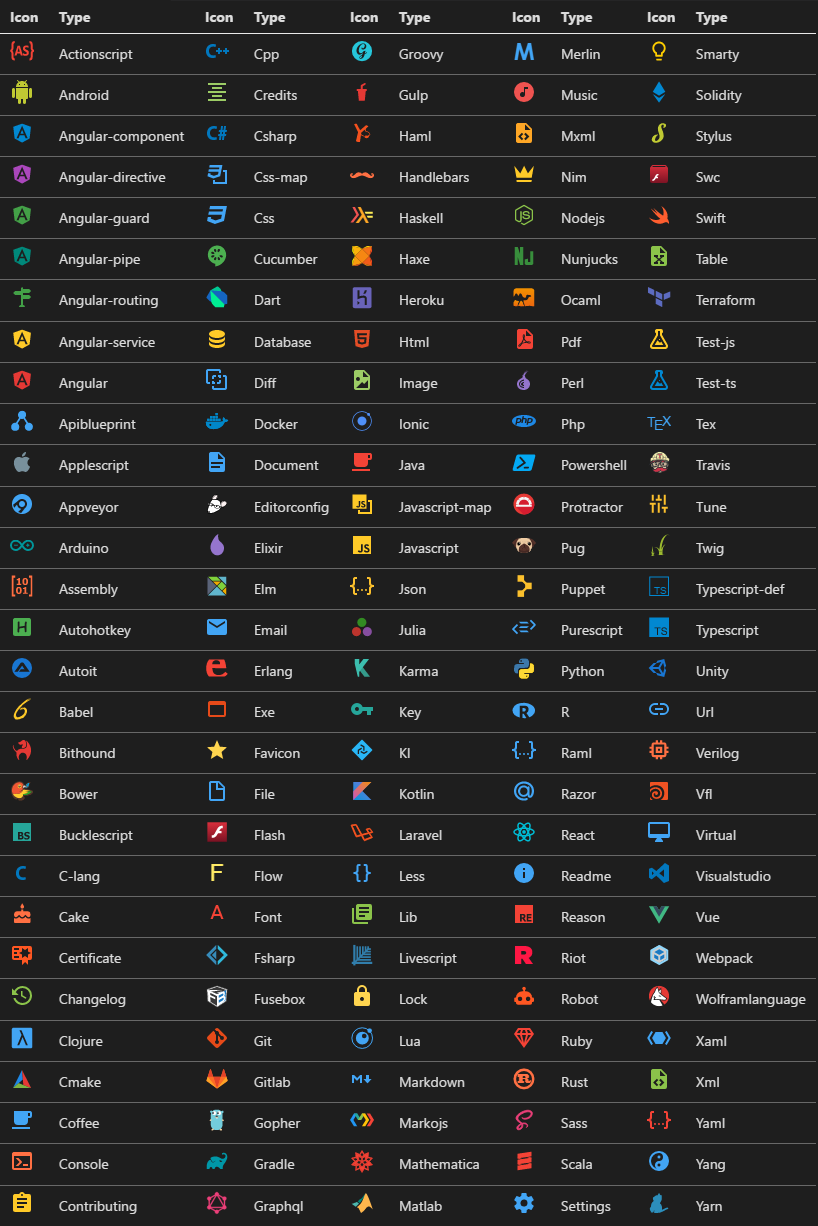
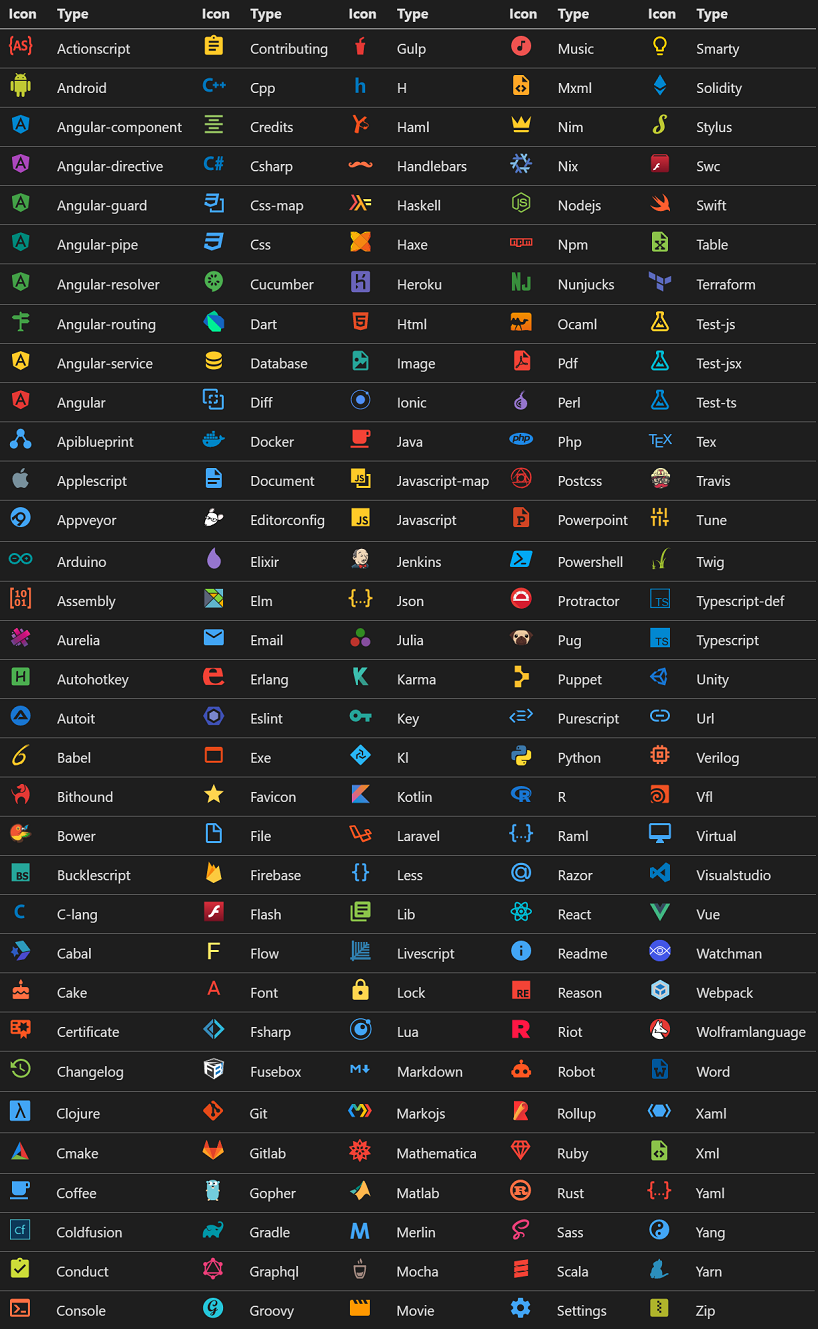
get ready to publish

Changed region(s): [[0.0, 0.0, 0.3973, 0.9918], [0.4279, 0.0, 0.7641, 0.9918], [0.7641, 0.0, 0.978, 0.9918]]

diff --git a/scripts/preview/index.ts b/scripts/preview/index.ts
@@ -20,7 +20,7 @@ const init = () => {
         iconList: fileIcons,
         markdownName: 'file-icons.md',
         columns: 5,
-        exclude: ['Todo', 'PowerPoint', 'Virtual'],
+        exclude: ['Todo'],
         outputPath: path.join('images')
     });
 

diff --git a/images/file-icons.md b/images/file-icons.md
@@ -1,33 +1,35 @@
 |Icon|Type|Icon|Type|Icon|Type|Icon|Type|Icon|Type|
 |---|---|---|---|---|---|---|---|---|---|
-|<img src="./../icons/actionscript.svg" width="24px">|Actionscript|<img src="./../icons/console.svg" width="24px">|Console|<img src="./../icons/graphql.svg" width="24px">|Graphql|<img src="./../icons/mocha.svg" width="24px">|Mocha|<img src="./../icons/smarty.svg" width="24px">|Smarty|
-|<img src="./../icons/android.svg" width="24px">|Android|<img src="./../icons/contributing.svg" width="24px">|Contributing|<img src="./../icons/groovy.svg" width="24px">|Groovy|<img src="./../icons/movie.svg" width="24px">|Movie|<img src="./../icons/solidity.svg" width="24px">|Solidity|
-|<img src="./../icons/angular-component.svg" width="24px">|Angular-component|<img src="./../icons/cpp.svg" width="24px">|Cpp|<img src="./../icons/gulp.svg" width="24px">|Gulp|<img src="./../icons/music.svg" width="24px">|Music|<img src="./../icons/stylus.svg" width="24px">|Stylus|
-|<img src="./../icons/angular-directive.svg" width="24px">|Angular-directive|<img src="./../icons/credits.svg" width="24px">|Credits|<img src="./../icons/haml.svg" width="24px">|Haml|<img src="./../icons/mxml.svg" width="24px">|Mxml|<img src="./../icons/swc.svg" width="24px">|Swc|
-|<img src="./../icons/angular-guard.svg" width="24px">|Angular-guard|<img src="./../icons/csharp.svg" width="24px">|Csharp|<img src="./../icons/handlebars.svg" width="24px">|Handlebars|<img src="./../icons/nim.svg" width="24px">|Nim|<img src="./../icons/swift.svg" width="24px">|Swift|
-|<img src="./../icons/angular-pipe.svg" width="24px">|Angular-pipe|<img src="./../icons/css-map.svg" width="24px">|Css-map|<img src="./../icons/haskell.svg" width="24px">|Haskell|<img src="./../icons/nodejs.svg" width="24px">|Nodejs|<img src="./../icons/table.svg" width="24px">|Table|
-|<img src="./../icons/angular-resolver.svg" width="24px">|Angular-resolver|<img src="./../icons/css.svg" width="24px">|Css|<img src="./../icons/haxe.svg" width="24px">|Haxe|<img src="./../icons/nunjucks.svg" width="24px">|Nunjucks|<img src="./../icons/terraform.svg" width="24px">|Terraform|
-|<img src="./../icons/angular-routing.svg" width="24px">|Angular-routing|<img src="./../icons/cucumber.svg" width="24px">|Cucumber|<img src="./../icons/heroku.svg" width="24px">|Heroku|<img src="./../icons/ocaml.svg" width="24px">|Ocaml|<img src="./../icons/test-js.svg" width="24px">|Test-js|
-|<img src="./../icons/angular-service.svg" width="24px">|Angular-service|<img src="./../icons/dart.svg" width="24px">|Dart|<img src="./../icons/html.svg" width="24px">|Html|<img src="./../icons/pdf.svg" width="24px">|Pdf|<img src="./../icons/test-jsx.svg" width="24px">|Test-jsx|
-|<img src="./../icons/angular.svg" width="24px">|Angular|<img src="./../icons/database.svg" width="24px">|Database|<img src="./../icons/image.svg" width="24px">|Image|<img src="./../icons/perl.svg" width="24px">|Perl|<img src="./../icons/test-ts.svg" width="24px">|Test-ts|
-|<img src="./../icons/apiblueprint.svg" width="24px">|Apiblueprint|<img src="./../icons/diff.svg" width="24px">|Diff|<img src="./../icons/ionic.svg" width="24px">|Ionic|<img src="./../icons/php.svg" width="24px">|Php|<img src="./../icons/tex.svg" width="24px">|Tex|
-|<img src="./../icons/applescript.svg" width="24px">|Applescript|<img src="./../icons/docker.svg" width="24px">|Docker|<img src="./../icons/java.svg" width="24px">|Java|<img src="./../icons/postcss.svg" width="24px">|Postcss|<img src="./../icons/travis.svg" width="24px">|Travis|
-|<img src="./../icons/appveyor.svg" width="24px">|Appveyor|<img src="./../icons/document.svg" width="24px">|Document|<img src="./../icons/javascript-map.svg" width="24px">|Javascript-map|<img src="./../icons/powershell.svg" width="24px">|Powershell|<img src="./../icons/tune.svg" width="24px">|Tune|
-|<img src="./../icons/arduino.svg" width="24px">|Arduino|<img src="./../icons/editorconfig.svg" width="24px">|Editorconfig|<img src="./../icons/javascript.svg" width="24px">|Javascript|<img src="./../icons/protractor.svg" width="24px">|Protractor|<img src="./../icons/twig.svg" width="24px">|Twig|
-|<img src="./../icons/assembly.svg" width="24px">|Assembly|<img src="./../icons/elixir.svg" width="24px">|Elixir|<img src="./../icons/json.svg" width="24px">|Json|<img src="./../icons/pug.svg" width="24px">|Pug|<img src="./../icons/typescript-def.svg" width="24px">|Typescript-def|
-|<img src="./../icons/aurelia.svg" width="24px">|Aurelia|<img src="./../icons/elm.svg" width="24px">|Elm|<img src="./../icons/julia.svg" width="24px">|Julia|<img src="./../icons/puppet.svg" width="24px">|Puppet|<img src="./../icons/typescript.svg" width="24px">|Typescript|
-|<img src="./../icons/autohotkey.svg" width="24px">|Autohotkey|<img src="./../icons/email.svg" width="24px">|Email|<img src="./../icons/karma.svg" width="24px">|Karma|<img src="./../icons/purescript.svg" width="24px">|Purescript|<img src="./../icons/unity.svg" width="24px">|Unity|
-|<img src="./../icons/autoit.svg" width="24px">|Autoit|<img src="./../icons/erlang.svg" width="24px">|Erlang|<img src="./../icons/key.svg" width="24px">|Key|<img src="./../icons/python.svg" width="24px">|Python|<img src="./../icons/url.svg" width="24px">|Url|
-|<img src="./../icons/babel.svg" width="24px">|Babel|<img src="./../icons/eslint.svg" width="24px">|Eslint|<img src="./../icons/kl.svg" width="24px">|Kl|<img src="./../icons/r.svg" width="24px">|R|<img src="./../icons/verilog.svg" width="24px">|Verilog|
-|<img src="./../icons/bithound.svg" width="24px">|Bithound|<img src="./../icons/exe.svg" width="24px">|Exe|<img src="./../icons/kotlin.svg" width="24px">|Kotlin|<img src="./../icons/raml.svg" width="24px">|Raml|<img src="./../icons/vfl.svg" width="24px">|Vfl|
-|<img src="./../icons/bower.svg" width="24px">|Bower|<img src="./../icons/favicon.svg" width="24px">|Favicon|<img src="./../icons/laravel.svg" width="24px">|Laravel|<img src="./../icons/razor.svg" width="24px">|Razor|<img src="./../icons/visualstudio.svg" width="24px">|Visualstudio|
-|<img src="./../icons/bucklescript.svg" width="24px">|Bucklescript|<img src="./../icons/file.svg" width="24px">|File|<img src="./../icons/less.svg" width="24px">|Less|<img src="./../icons/react.svg" width="24px">|React|<img src="./../icons/vue.svg" width="24px">|Vue|
-|<img src="./../icons/c-lang.svg" width="24px">|C-lang|<img src="./../icons/flash.svg" width="24px">|Flash|<img src="./../icons/lib.svg" width="24px">|Lib|<img src="./../icons/readme.svg" width="24px">|Readme|<img src="./../icons/watchman.svg" width="24px">|Watchman|
-|<img src="./../icons/cake.svg" width="24px">|Cake|<img src="./../icons/flow.svg" width="24px">|Flow|<img src="./../icons/livescript.svg" width="24px">|Livescript|<img src="./../icons/reason.svg" width="24px">|Reason|<img src="./../icons/webpack.svg" width="24px">|Webpack|
-|<img src="./../icons/certificate.svg" width="24px">|Certificate|<img src="./../icons/font.svg" width="24px">|Font|<img src="./../icons/lock.svg" width="24px">|Lock|<img src="./../icons/riot.svg" width="24px">|Riot|<img src="./../icons/wolframlanguage.svg" width="24px">|Wolframlanguage|
-|<img src="./../icons/changelog.svg" width="24px">|Changelog|<img src="./../icons/fsharp.svg" width="24px">|Fsharp|<img src="./../icons/lua.svg" width="24px">|Lua|<img src="./../icons/robot.svg" width="24px">|Robot|<img src="./../icons/word.svg" width="24px">|Word|
-|<img src="./../icons/clojure.svg" width="24px">|Clojure|<img src="./../icons/fusebox.svg" width="24px">|Fusebox|<img src="./../icons/markdown.svg" width="24px">|Markdown|<img src="./../icons/ruby.svg" width="24px">|Ruby|<img src="./../icons/xaml.svg" width="24px">|Xaml|
-|<img src="./../icons/cmake.svg" width="24px">|Cmake|<img src="./../icons/git.svg" width="24px">|Git|<img src="./../icons/markojs.svg" width="24px">|Markojs|<img src="./../icons/rust.svg" width="24px">|Rust|<img src="./../icons/xml.svg" width="24px">|Xml|
-|<img src="./../icons/coffee.svg" width="24px">|Coffee|<img src="./../icons/gitlab.svg" width="24px">|Gitlab|<img src="./../icons/mathematica.svg" width="24px">|Mathematica|<img src="./../icons/sass.svg" width="24px">|Sass|<img src="./../icons/yaml.svg" width="24px">|Yaml|
-|<img src="./../icons/coldfusion.svg" width="24px">|Coldfusion|<img src="./../icons/gopher.svg" width="24px">|Gopher|<img src="./../icons/matlab.svg" width="24px">|Matlab|<img src="./../icons/scala.svg" width="24px">|Scala|<img src="./../icons/yang.svg" width="24px">|Yang|
-|<img src="./../icons/conduct.svg" width="24px">|Conduct|<img src="./../icons/gradle.svg" width="24px">|Gradle|<img src="./../icons/merlin.svg" width="24px">|Merlin|<img src="./../icons/settings.svg" width="24px">|Settings|<img src="./../icons/yarn.svg" width="24px">|Yarn|
+|<img src="./../icons/actionscript.svg" width="24px">|Actionscript|<img src="./../icons/contributing.svg" width="24px">|Contributing|<img src="./../icons/gulp.svg" width="24px">|Gulp|<img src="./../icons/music.svg" width="24px">|Music|<img src="./../icons/smarty.svg" width="24px">|Smarty|
+|<img src="./../icons/android.svg" width="24px">|Android|<img src="./../icons/cpp.svg" width="24px">|Cpp|<img src="./../icons/h.svg" width="24px">|H|<img src="./../icons/mxml.svg" width="24px">|Mxml|<img src="./../icons/solidity.svg" width="24px">|Solidity|
+|<img src="./../icons/angular-component.svg" width="24px">|Angular-component|<img src="./../icons/credits.svg" width="24px">|Credits|<img src="./../icons/haml.svg" width="24px">|Haml|<img src="./../icons/nim.svg" width="24px">|Nim|<img src="./../icons/stylus.svg" width="24px">|Stylus|
+|<img src="./../icons/angular-directive.svg" width="24px">|Angular-directive|<img src="./../icons/csharp.svg" width="24px">|Csharp|<img src="./../icons/handlebars.svg" width="24px">|Handlebars|<img src="./../icons/nix.svg" width="24px">|Nix|<img src="./../icons/swc.svg" width="24px">|Swc|
+|<img src="./../icons/angular-guard.svg" width="24px">|Angular-guard|<img src="./../icons/css-map.svg" width="24px">|Css-map|<img src="./../icons/haskell.svg" width="24px">|Haskell|<img src="./../icons/nodejs.svg" width="24px">|Nodejs|<img src="./../icons/swift.svg" width="24px">|Swift|
+|<img src="./../icons/angular-pipe.svg" width="24px">|Angular-pipe|<img src="./../icons/css.svg" width="24px">|Css|<img src="./../icons/haxe.svg" width="24px">|Haxe|<img src="./../icons/npm.svg" width="24px">|Npm|<img src="./../icons/table.svg" width="24px">|Table|
+|<img src="./../icons/angular-resolver.svg" width="24px">|Angular-resolver|<img src="./../icons/cucumber.svg" width="24px">|Cucumber|<img src="./../icons/heroku.svg" width="24px">|Heroku|<img src="./../icons/nunjucks.svg" width="24px">|Nunjucks|<img src="./../icons/terraform.svg" width="24px">|Terraform|
+|<img src="./../icons/angular-routing.svg" width="24px">|Angular-routing|<img src="./../icons/dart.svg" width="24px">|Dart|<img src="./../icons/html.svg" width="24px">|Html|<img src="./../icons/ocaml.svg" width="24px">|Ocaml|<img src="./../icons/test-js.svg" width="24px">|Test-js|
+|<img src="./../icons/angular-service.svg" width="24px">|Angular-service|<img src="./../icons/database.svg" width="24px">|Database|<img src="./../icons/image.svg" width="24px">|Image|<img src="./../icons/pdf.svg" width="24px">|Pdf|<img src="./../icons/test-jsx.svg" width="24px">|Test-jsx|
+|<img src="./../icons/angular.svg" width="24px">|Angular|<img src="./../icons/diff.svg" width="24px">|Diff|<img src="./../icons/ionic.svg" width="24px">|Ionic|<img src="./../icons/perl.svg" width="24px">|Perl|<img src="./../icons/test-ts.svg" width="24px">|Test-ts|
+|<img src="./../icons/apiblueprint.svg" width="24px">|Apiblueprint|<img src="./../icons/docker.svg" width="24px">|Docker|<img src="./../icons/java.svg" width="24px">|Java|<img src="./../icons/php.svg" width="24px">|Php|<img src="./../icons/tex.svg" width="24px">|Tex|
+|<img src="./../icons/applescript.svg" width="24px">|Applescript|<img src="./../icons/document.svg" width="24px">|Document|<img src="./../icons/javascript-map.svg" width="24px">|Javascript-map|<img src="./../icons/postcss.svg" width="24px">|Postcss|<img src="./../icons/travis.svg" width="24px">|Travis|
+|<img src="./../icons/appveyor.svg" width="24px">|Appveyor|<img src="./../icons/editorconfig.svg" width="24px">|Editorconfig|<img src="./../icons/javascript.svg" width="24px">|Javascript|<img src="./../icons/powerpoint.svg" width="24px">|Powerpoint|<img src="./../icons/tune.svg" width="24px">|Tune|
+|<img src="./../icons/arduino.svg" width="24px">|Arduino|<img src="./../icons/elixir.svg" width="24px">|Elixir|<img src="./../icons/jenkins.svg" width="24px">|Jenkins|<img src="./../icons/powershell.svg" width="24px">|Powershell|<img src="./../icons/twig.svg" width="24px">|Twig|
+|<img src="./../icons/assembly.svg" width="24px">|Assembly|<img src="./../icons/elm.svg" width="24px">|Elm|<img src="./../icons/json.svg" width="24px">|Json|<img src="./../icons/protractor.svg" width="24px">|Protractor|<img src="./../icons/typescript-def.svg" width="24px">|Typescript-def|
+|<img src="./../icons/aurelia.svg" width="24px">|Aurelia|<img src="./../icons/email.svg" width="24px">|Email|<img src="./../icons/julia.svg" width="24px">|Julia|<img src="./../icons/pug.svg" width="24px">|Pug|<img src="./../icons/typescript.svg" width="24px">|Typescript|
+|<img src="./../icons/autohotkey.svg" width="24px">|Autohotkey|<img src="./../icons/erlang.svg" width="24px">|Erlang|<img src="./../icons/karma.svg" width="24px">|Karma|<img src="./../icons/puppet.svg" width="24px">|Puppet|<img src="./../icons/unity.svg" width="24px">|Unity|
+|<img src="./../icons/autoit.svg" width="24px">|Autoit|<img src="./../icons/eslint.svg" width="24px">|Eslint|<img src="./../icons/key.svg" width="24px">|Key|<img src="./../icons/purescript.svg" width="24px">|Purescript|<img src="./../icons/url.svg" width="24px">|Url|
+|<img src="./../icons/babel.svg" width="24px">|Babel|<img src="./../icons/exe.svg" width="24px">|Exe|<img src="./../icons/kl.svg" width="24px">|Kl|<img src="./../icons/python.svg" width="24px">|Python|<img src="./../icons/verilog.svg" width="24px">|Verilog|
+|<img src="./../icons/bithound.svg" width="24px">|Bithound|<img src="./../icons/favicon.svg" width="24px">|Favicon|<img src="./../icons/kotlin.svg" width="24px">|Kotlin|<img src="./../icons/r.svg" width="24px">|R|<img src="./../icons/vfl.svg" width="24px">|Vfl|
+|<img src="./../icons/bower.svg" width="24px">|Bower|<img src="./../icons/file.svg" width="24px">|File|<img src="./../icons/laravel.svg" width="24px">|Laravel|<img src="./../icons/raml.svg" width="24px">|Raml|<img src="./../icons/virtual.svg" width="24px">|Virtual|
+|<img src="./../icons/bucklescript.svg" width="24px">|Bucklescript|<img src="./../icons/firebase.svg" width="24px">|Firebase|<img src="./../icons/less.svg" width="24px">|Less|<img src="./../icons/razor.svg" width="24px">|Razor|<img src="./../icons/visualstudio.svg" width="24px">|Visualstudio|
+|<img src="./../icons/c-lang.svg" width="24px">|C-lang|<img src="./../icons/flash.svg" width="24px">|Flash|<img src="./../icons/lib.svg" width="24px">|Lib|<img src="./../icons/react.svg" width="24px">|React|<img src="./../icons/vue.svg" width="24px">|Vue|
+|<img src="./../icons/cabal.svg" width="24px">|Cabal|<img src="./../icons/flow.svg" width="24px">|Flow|<img src="./../icons/livescript.svg" width="24px">|Livescript|<img src="./../icons/readme.svg" width="24px">|Readme|<img src="./../icons/watchman.svg" width="24px">|Watchman|
+|<img src="./../icons/cake.svg" width="24px">|Cake|<img src="./../icons/font.svg" width="24px">|Font|<img src="./../icons/lock.svg" width="24px">|Lock|<img src="./../icons/reason.svg" width="24px">|Reason|<img src="./../icons/webpack.svg" width="24px">|Webpack|
+|<img src="./../icons/certificate.svg" width="24px">|Certificate|<img src="./../icons/fsharp.svg" width="24px">|Fsharp|<img src="./../icons/lua.svg" width="24px">|Lua|<img src="./../icons/riot.svg" width="24px">|Riot|<img src="./../icons/wolframlanguage.svg" width="24px">|Wolframlanguage|
+|<img src="./../icons/changelog.svg" width="24px">|Changelog|<img src="./../icons/fusebox.svg" width="24px">|Fusebox|<img src="./../icons/markdown.svg" width="24px">|Markdown|<img src="./../icons/robot.svg" width="24px">|Robot|<img src="./../icons/word.svg" width="24px">|Word|
+|<img src="./../icons/clojure.svg" width="24px">|Clojure|<img src="./../icons/git.svg" width="24px">|Git|<img src="./../icons/markojs.svg" width="24px">|Markojs|<img src="./../icons/rollup.svg" width="24px">|Rollup|<img src="./../icons/xaml.svg" width="24px">|Xaml|
+|<img src="./../icons/cmake.svg" width="24px">|Cmake|<img src="./../icons/gitlab.svg" width="24px">|Gitlab|<img src="./../icons/mathematica.svg" width="24px">|Mathematica|<img src="./../icons/ruby.svg" width="24px">|Ruby|<img src="./../icons/xml.svg" width="24px">|Xml|
+|<img src="./../icons/coffee.svg" width="24px">|Coffee|<img src="./../icons/gopher.svg" width="24px">|Gopher|<img src="./../icons/matlab.svg" width="24px">|Matlab|<img src="./../icons/rust.svg" width="24px">|Rust|<img src="./../icons/yaml.svg" width="24px">|Yaml|
+|<img src="./../icons/coldfusion.svg" width="24px">|Coldfusion|<img src="./../icons/gradle.svg" width="24px">|Gradle|<img src="./../icons/merlin.svg" width="24px">|Merlin|<img src="./../icons/sass.svg" width="24px">|Sass|<img src="./../icons/yang.svg" width="24px">|Yang|
+|<img src="./../icons/conduct.svg" width="24px">|Conduct|<img src="./../icons/graphql.svg" width="24px">|Graphql|<img src="./../icons/mocha.svg" width="24px">|Mocha|<img src="./../icons/scala.svg" width="24px">|Scala|<img src="./../icons/yarn.svg" width="24px">|Yarn|
+|<img src="./../icons/console.svg" width="24px">|Console|<img src="./../icons/groovy.svg" width="24px">|Groovy|<img src="./../icons/movie.svg" width="24px">|Movie|<img src="./../icons/settings.svg" width="24px">|Settings|<img src="./../icons/zip.svg" width="24px">|Zip|

diff --git a/CONTRIBUTING.md b/CONTRIBUTING.md
@@ -1,4 +1,17 @@
-# Contributing
+<h1>Contributing</h1>
+
+<!-- TOC -->
+
+- [Create issues](#create-issues)
+- [Add new icons](#add-new-icons)
+    - [Icon color](#icon-color)
+    - [Check icon](#check-icon)
+    - [Free software to create/edit SVG icons](#free-software-to-createedit-svg-icons)
+    - [Use icons from here](#use-icons-from-here)
+- [Add translations](#add-translations)
+- [Update API](#update-api)
+
+<!-- /TOC -->
 
 ## Create issues
 You need an icon for a specific file ending? No problem, just follow these guidelines:
@@ -24,14 +37,12 @@ Please check the created icon with your VSCode. Copy your source files of the th
     - download them as SVG and edit the icons e.g. with Inkscape
 - you can use any other source **as long as the icons are free to use!**. This icon theme is absolutely non-commercial, but you should always check the license of your sources! 
 
+## Add translations
+- Create or edit the translations in the `src/i18n` directory.
+- Create or edit the `package.nls.*.json` files in the root folder
+
 ## Update API
 1. Install node dependencies with `npm install`
 2. Open project with VS Code
 3. Press `F5` or run `Launch Extension` in the debug window
 4. Run tests with `Launch Tests`
-
-### Add translations
-- Create a new translation file in the `src/i18n` directory with the new translations.
-- Or edit the existing translation files
-
-It'd be great if you could improve the project!

diff --git a/CHANGELOG.md b/CHANGELOG.md
@@ -1,5 +1,25 @@
 # Change Log
 
+## 2.2.0 (2017-08-22)
+Added icons:
+- Jenkins [[issue #104](https://github.com/PKief/vscode-material-icon-theme/issues/104)]
+- webpack file extensions [[@MeirionHughes](https://github.com/MeirionHughes) in [#106](https://github.com/PKief/vscode-material-icon-theme/pull/106)]
+- Folders for javascripts and stylesheets [[@ycrepeau](https://github.com/ycrepeau) in [#107](https://github.com/PKief/vscode-material-icon-theme/pull/107)]
+- Icon for *.cabal [[@jBugman](https://github.com/jBugman) in [#111](https://github.com/PKief/vscode-material-icon-theme/pull/111)]
+- htm [[issue #115](https://github.com/PKief/vscode-material-icon-theme/issues/115)]
+- h [[issue #121](https://github.com/PKief/vscode-material-icon-theme/issues/121)]
+- Nix
+- npm
+- Firebase
+- Rollup
+
+Added translations:
+- French [[@ycrepeau](https://github.com/ycrepeau) in [#107](https://github.com/PKief/vscode-material-icon-theme/pull/107)]
+- Spanish [[@baraalex](https://github.com/baraalex) in [#113](https://github.com/PKief/vscode-material-icon-theme/pull/113)]
+
+Other improvements:
+- extension now supports portable versions of VS Code [[issue #120](https://github.com/PKief/vscode-material-icon-theme/issues/120)]
+
 ## 2.1.0 (2017-08-07)
 Added folder icons:
 - Aurelia folder
